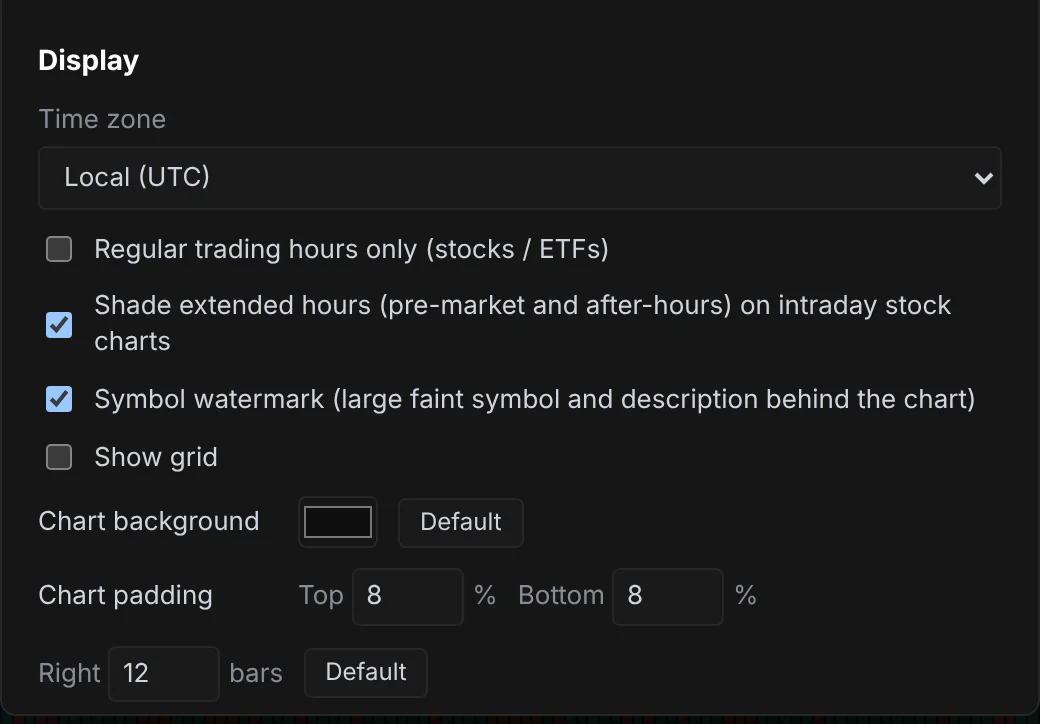
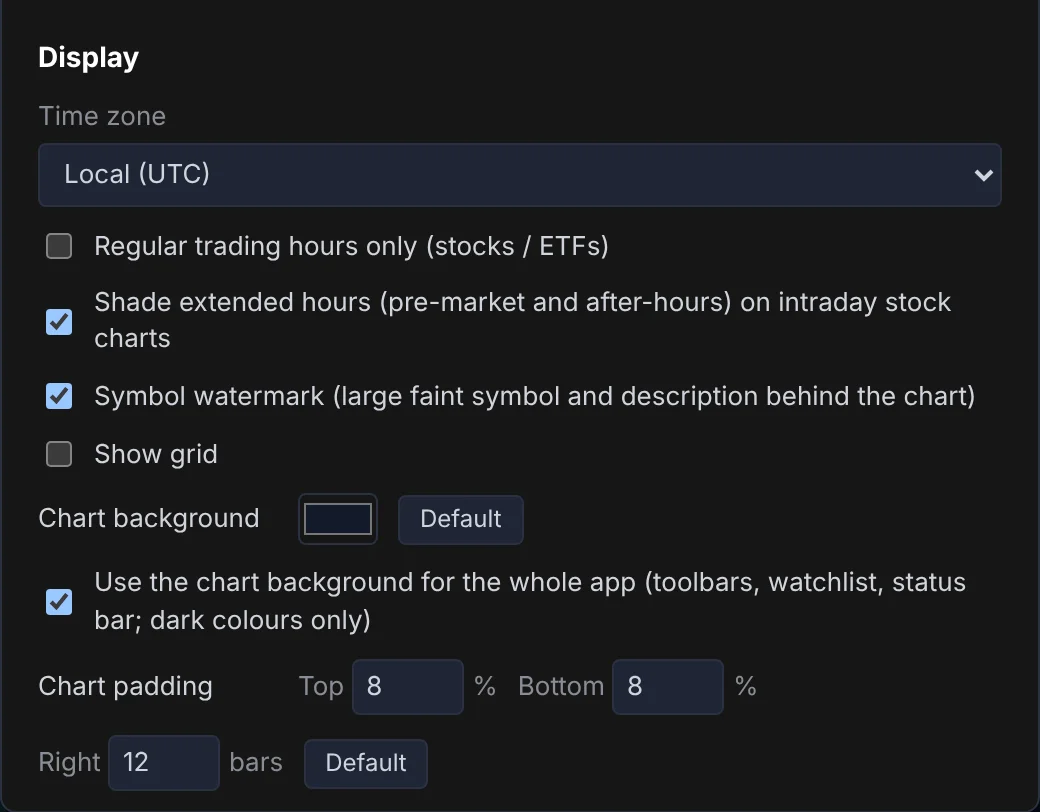
Desktop Charts: SPX Levels, watchlist sorting, whole-app background
Describe the three features added to the app on Nov 18 (SPX Levels (XSP)
indicator, sorting the watchlist by a column heading, and the 'Use the
chart background for the whole app' option), plus two existing gaps:
chart types and the indicator Defaults menu. Add demo-mode screenshots
and refresh the Display settings one.

Claude-Session: https://claude.ai/code/session_01VvQfTMRTqHqTfTrf1TVzwc

diff --git a/docs/projects/desktop-charts/features.md b/docs/projects/desktop-charts/features.md
@@ -3,8 +3,9 @@
 ## Charts and timeframes
 
 Candles on a dark, TradingView-style chart with 1m, 2m, 5m, 15m, 30m, 1h, daily
-and weekly timeframes. The legend shows open, high, low, close and change for
-the bar under the crosshair.
+and weekly timeframes. The chart type button next to the timeframes switches a
+chart between candles, bars, line and area. The legend shows open, high, low,
+close and change for the bar under the crosshair.
 
 Each chart remembers its zoom and scroll for every timeframe, so it reopens
 showing the same span you left it on. **Alt+R** (or the corners icon) puts it
@@ -69,11 +70,27 @@ Favorites. Hover a legend row to hide, edit or remove an indicator.
 - Bollinger Bands
 - VWAP (session) and Anchored VWAP
 - Key levels: previous session high, low and close, and today's open
+- SPX Levels (XSP): the day's posted SPX levels
 - RSI, MACD and Average True Range in their own panes
 - Volume
 
 **Anchored VWAP:** pick the anchor tool in the left toolbar, then click a bar.
 Bands and the anchor time are in its settings.
+
+**Defaults:** the **Defaults** menu in an indicator's settings has **Apply to
+all charts** (use these settings for that indicator on every chart), **Save as
+default** (use them whenever you add it from now on) and **Reset to default**.
+
+### SPX Levels (XSP)
+
+Type the day's posted SPX levels into the indicator's settings: call trigger
+and stop, put trigger and stop, and three levels up (UT1 to UT3) and down (DT1
+to DT3). Leave a level at 0 to hide it. On an XSP chart the levels are divided
+by 10 automatically, and on SPX they draw as posted (or pick XSP or SPX
+yourself). The lines cover the latest session only. Use **Defaults → Apply to
+all charts** to update every chart at once.
+
+![SPX 5-minute chart with the SPX Levels indicator: green UT1 to UT3 lines above, orange call and put triggers, grey dashed stops, and red DT1 to DT3 lines below](../../assets/images/desktop-charts/12-spx-levels.webp){ .screenshot loading=lazy }
 
 ## Drawing tools
 
@@ -116,6 +133,11 @@ Click **+** to add symbols, and the ⋮ menu to choose columns: Last, Change,
 Change %, Volume and **Ext**, the pre-market or after-hours change for stocks
 (hover it for the price). Click a symbol to load it in the active chart.
 
+**Sort it:** click a column heading to sort by it (numbers high to low first,
+Symbol A to Z), click again to flip the order, and a third time to go back to
+the list's own order. Only the view is sorted, so your saved order doesn't
+change. Number columns re-sort as prices move, and the choice is remembered.
+
 **Several watchlists:** click the watchlist's name to create a new list, make a
 copy, rename it, switch between lists, or delete one (× on hover). For example,
 keep a "Futures" list next to an "Earnings week" list.
@@ -143,6 +165,11 @@ the name means unsaved changes.
 padding**: space above and below the candles (in %) and to the right of the
 last bar (in bars). Each has a **Default** button to put it back. The right
 padding is kept when you switch timeframes.
+
+**Use the chart background for the whole app** (on by default) gives the
+toolbars, watchlist and status bar the chart's colour, with panels and borders
+shaded to match. It applies to dark colours; with a light chart background the
+rest of the app keeps its default dark look so the text stays readable.
 
 ## Other touches
 

diff --git a/docs/projects/desktop-charts/screenshots.md b/docs/projects/desktop-charts/screenshots.md
@@ -74,8 +74,29 @@ Click the watchlist's name to switch lists, or to create, copy or rename one.
 
 ![Watchlist menu with Create new list, Make a copy, Rename, and the lists Earnings week, Futures and Watchlist](../../assets/images/desktop-charts/8-watchlists.webp){ .screenshot loading=lazy width="320" }
 
+## Sorted watchlist
+
+The watchlist sorted by Chg% from high to low. Click a column heading to sort.
+
+![Watchlist sorted by Chg% from high to low, with a down arrow next to the Chg% heading](../../assets/images/desktop-charts/14-watchlist-sort.webp){ .screenshot loading=lazy width="320" }
+
+## SPX Levels
+
+The SPX Levels (XSP) indicator on an SPX 5-minute chart, with the day's levels
+up (UT), down (DT), and the call and put triggers and stops.
+
+![SPX 5-minute chart with the SPX Levels indicator: green UT1 to UT3 lines above, orange call and put triggers, grey dashed stops, and red DT1 to DT3 lines below](../../assets/images/desktop-charts/12-spx-levels.webp){ .screenshot loading=lazy }
+
+## Matching app background
+
+A dark navy chart background carried through the toolbars, watchlist and
+status bar.
+
+![Desktop Charts with a dark navy chart background carried through the toolbars, watchlist and status bar](../../assets/images/desktop-charts/13-app-background.webp){ .screenshot loading=lazy }
+
 ## Display settings
 
-Chart background colour and chart padding in Settings → Display.
+Chart background colour, the option to use it for the whole app, and chart
+padding in Settings → Display.
 
-![Display settings with time zone, extended-hours shading, watermark, grid, chart background colour and chart padding](../../assets/images/desktop-charts/10-display-settings.webp){ .screenshot loading=lazy width="520" }
+![Display settings with time zone, extended-hours shading, watermark, grid, chart background colour, the whole-app background option and chart padding](../../assets/images/desktop-charts/10-display-settings.webp){ .screenshot loading=lazy width="520" }

diff --git a/docs/projects/desktop-charts/index.md b/docs/projects/desktop-charts/index.md
@@ -41,12 +41,14 @@ machine, and only ever reads market data.
 - **Volume profile and TPO:** visible range, session and fixed range profiles
   with POC, VAH and VAL, plus a TPO (Market Profile) with initial balance.
 - **Anchored VWAP:** click any bar to anchor it, with optional bands.
+- **SPX Levels:** type in the day's posted SPX levels and see them on SPX or XSP
+  charts (divided by 10 on XSP).
 - **Drawing tools:** trend lines, rays, horizontal lines, rectangles, fib
   retracements, text and a measure tool, saved per symbol.
 - **Price alerts:** right-click a chart or press Alt+A, and get a chime, a pop-up
   and a desktop notification when price crosses your level.
 - **Watchlists:** as many named lists as you like, with last, change, volume and
-  pre-market / after-hours change for stocks.
+  pre-market / after-hours change for stocks, sortable by any column.
 - **Saved layouts:** keep a "Scalping" and a "Swing" setup and switch between them.
 
 See the full [feature tour](features.md) or the [screenshots](screenshots.md).
